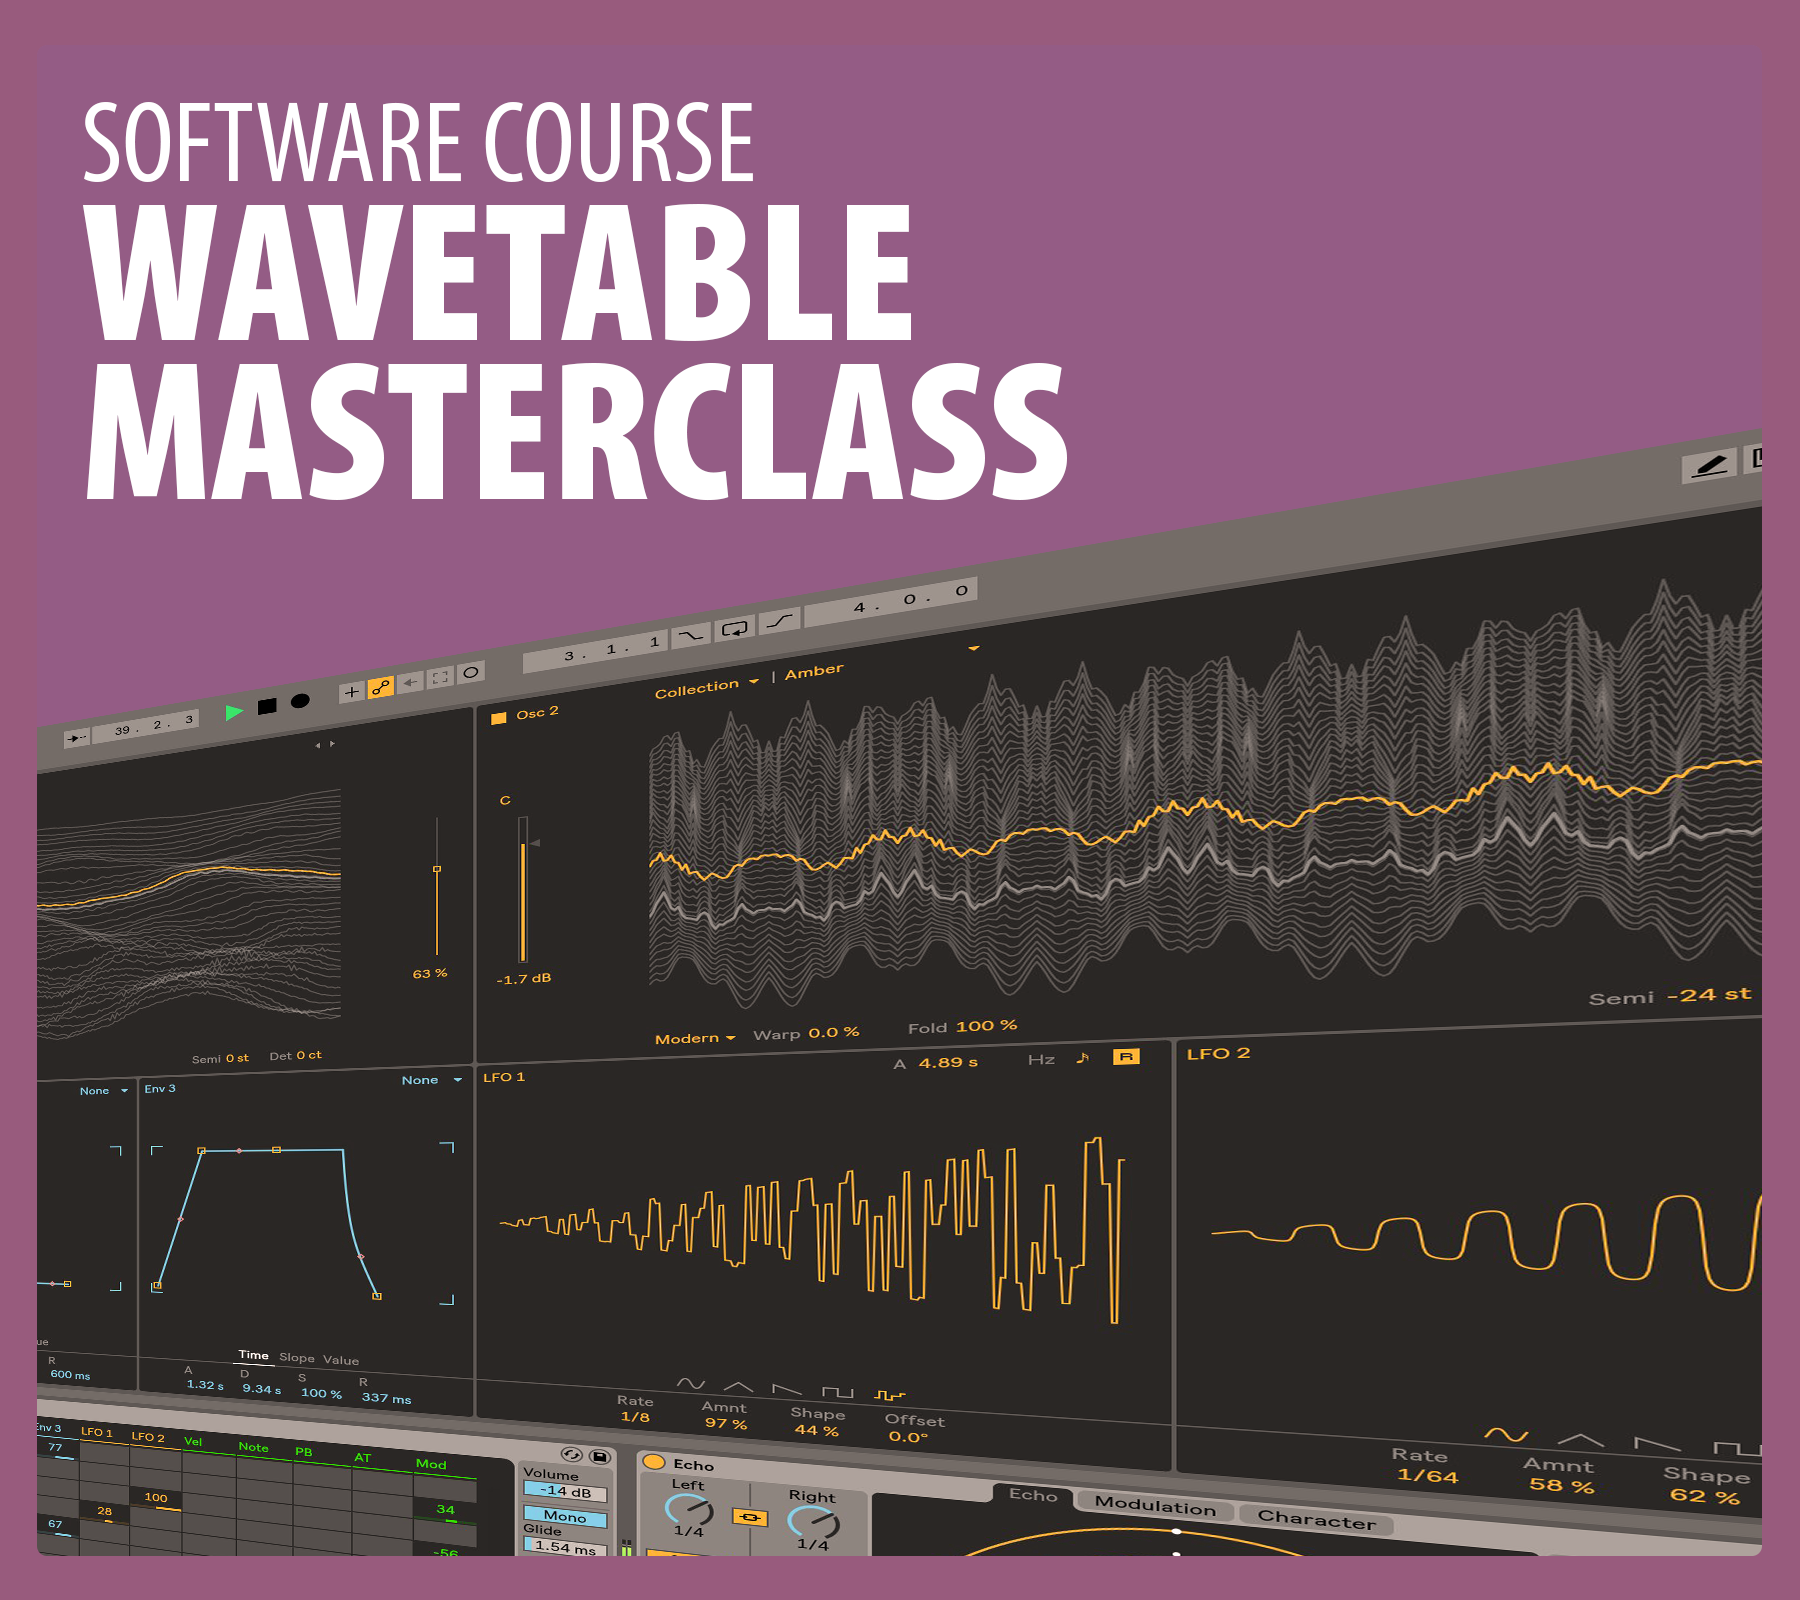
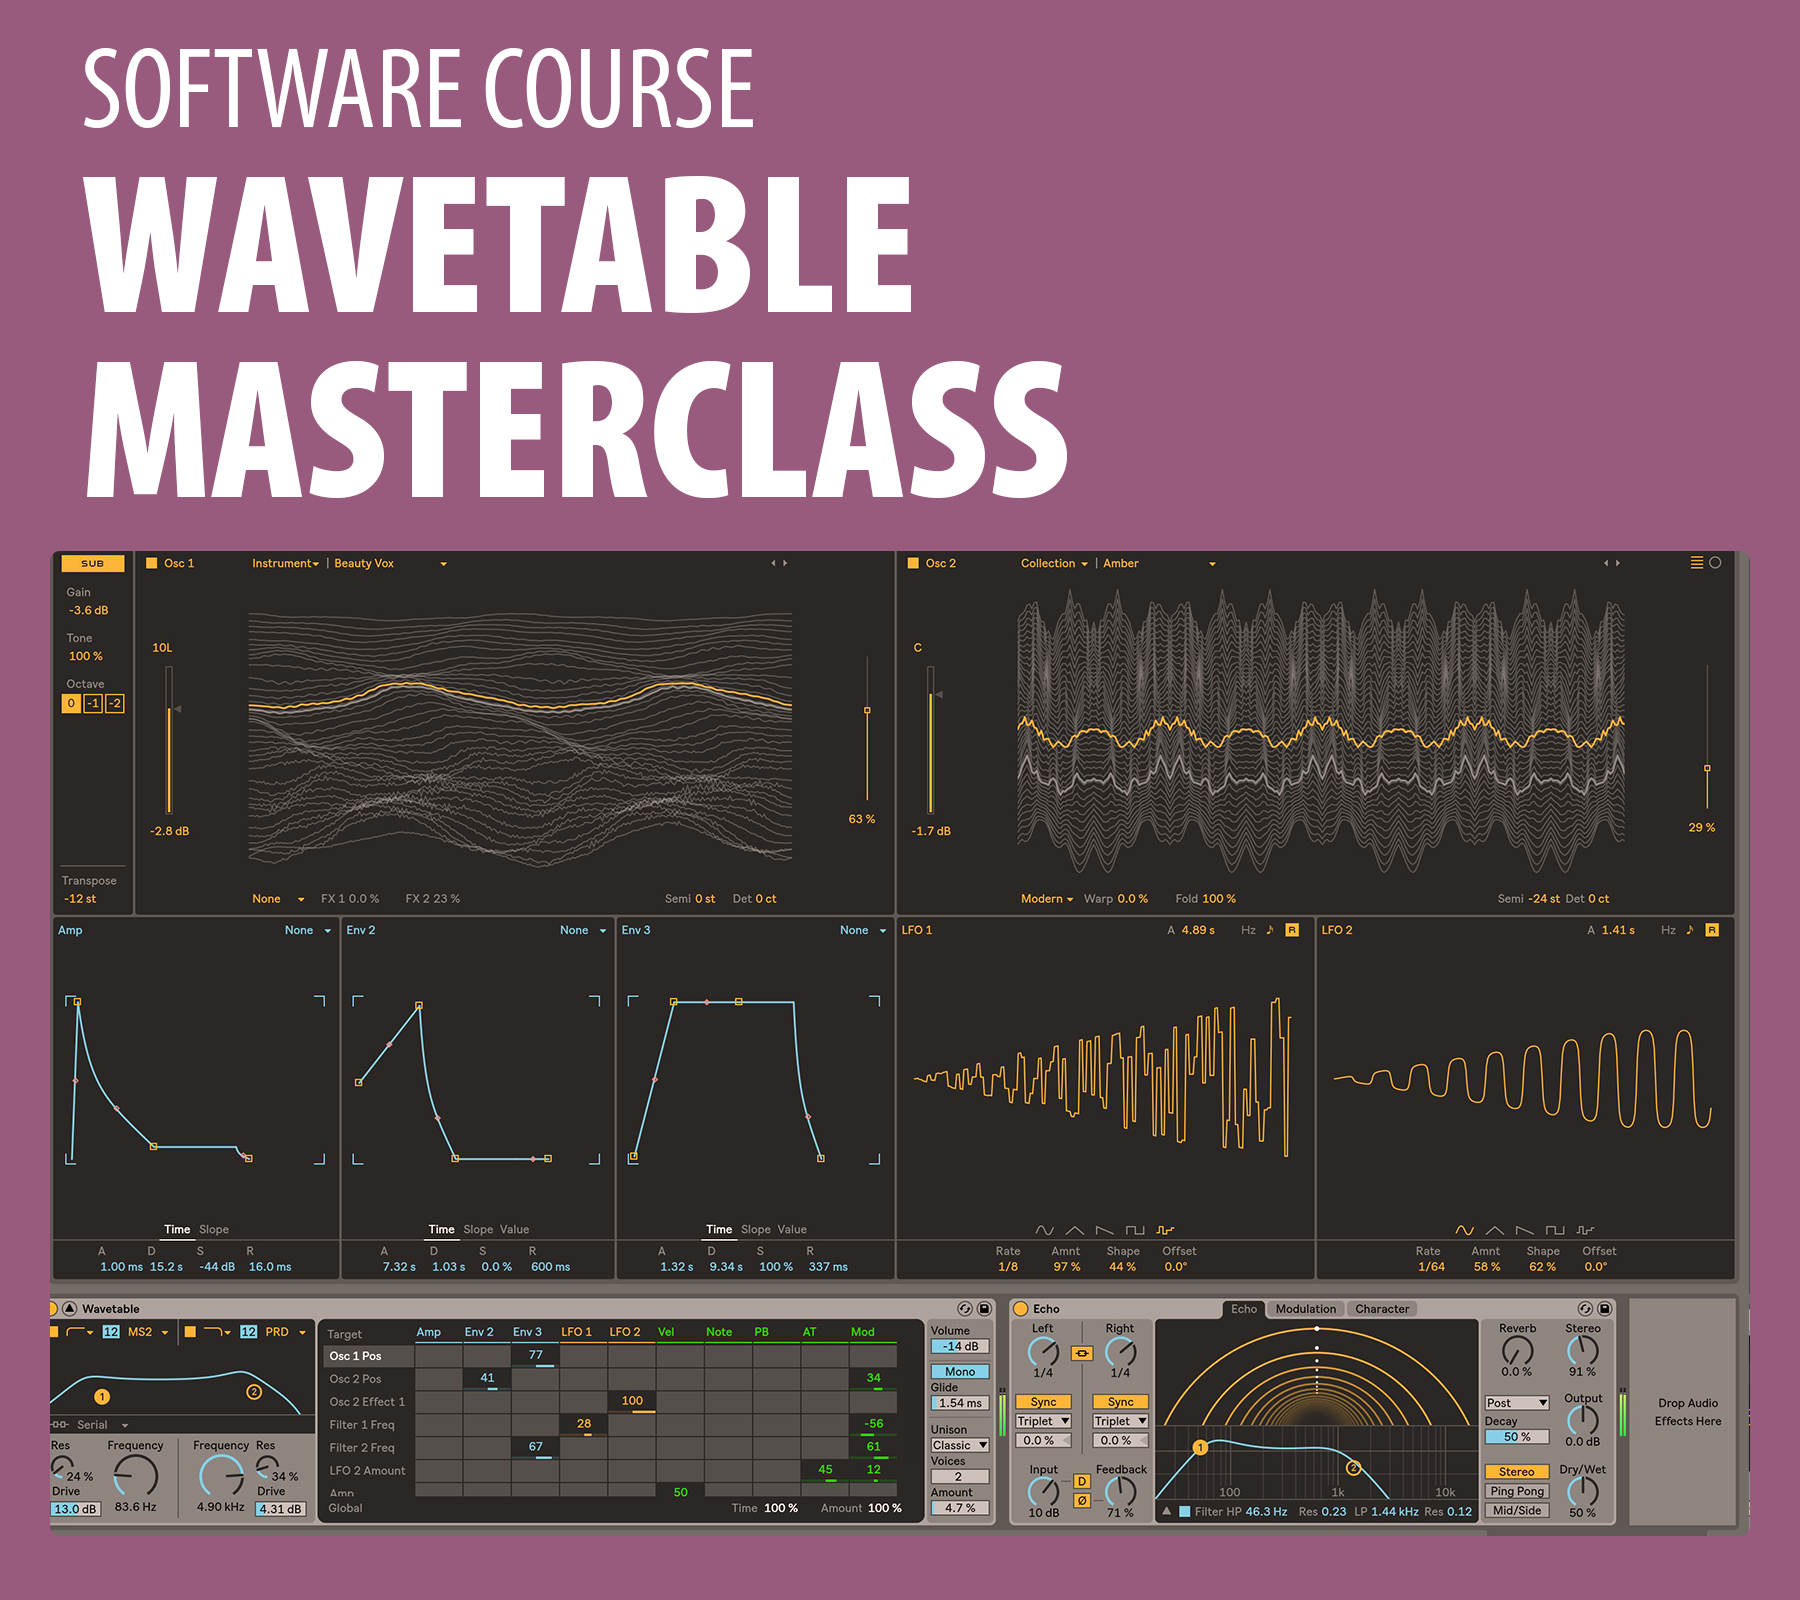
update course images

diff --git a/assets/css/style.css b/assets/css/style.css
@@ -528,7 +528,7 @@ li {
 .ableton-hero {
     margin: 15px 0 60px;
     height: 50vh;
-    background-image: url(../images/ableton-beginners.png);
+    background-image: url(../images/ableton-hero.png);
     background-position: center;
     position: relative;
     background-size: cover;
